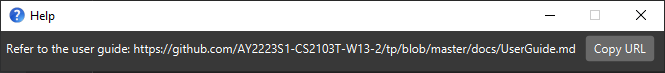
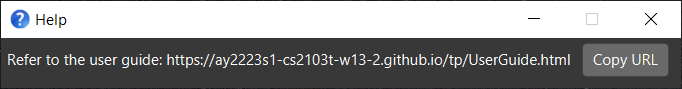
Update help window user guide link to GitHub pages link

diff --git a/src/main/java/longtimenosee/ui/HelpWindow.java b/src/main/java/longtimenosee/ui/HelpWindow.java
@@ -15,8 +15,7 @@ import longtimenosee.commons.core.LogsCenter;
  */
 public class HelpWindow extends UiPart<Stage> {
 
-    public static final String USERGUIDE_URL =
-            "https://github.com/AY2223S1-CS2103T-W13-2/tp/blob/master/docs/UserGuide.md";
+    public static final String USERGUIDE_URL = "https://ay2223s1-cs2103t-w13-2.github.io/tp/UserGuide.html";
     public static final String HELP_MESSAGE = "Refer to the user guide: " + USERGUIDE_URL;
 
     private static final Logger logger = LogsCenter.getLogger(HelpWindow.class);
